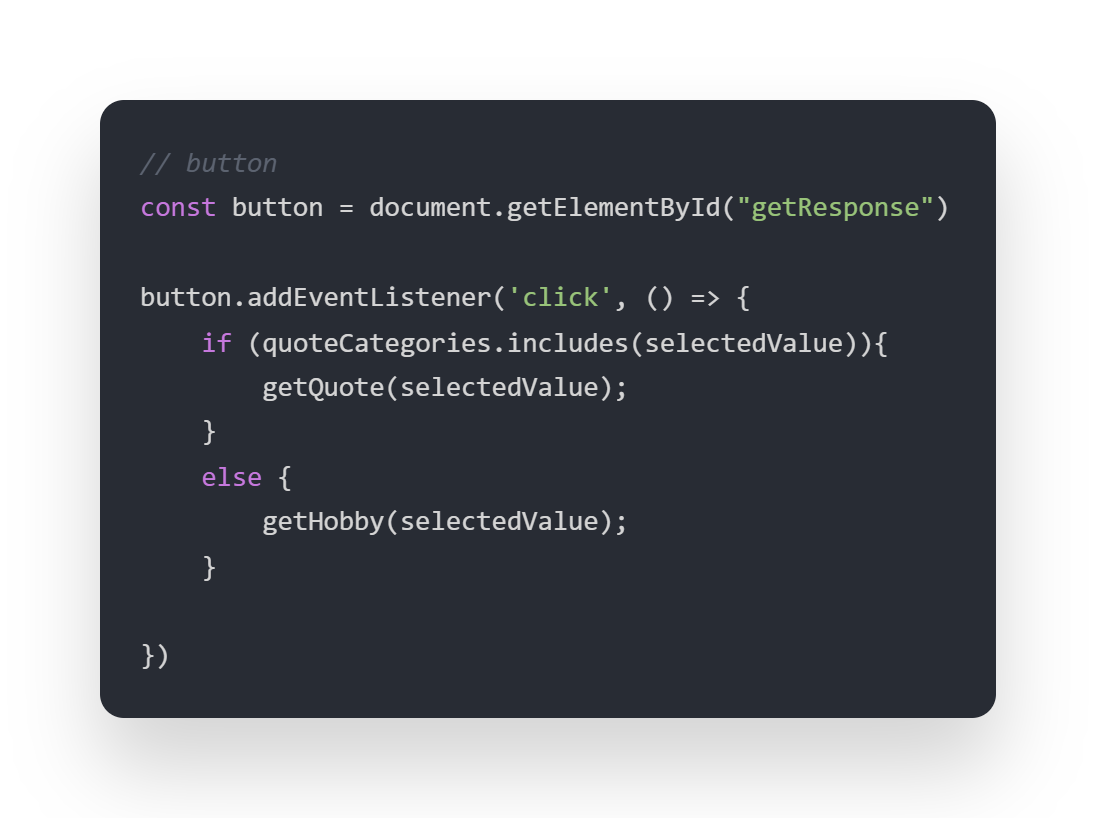
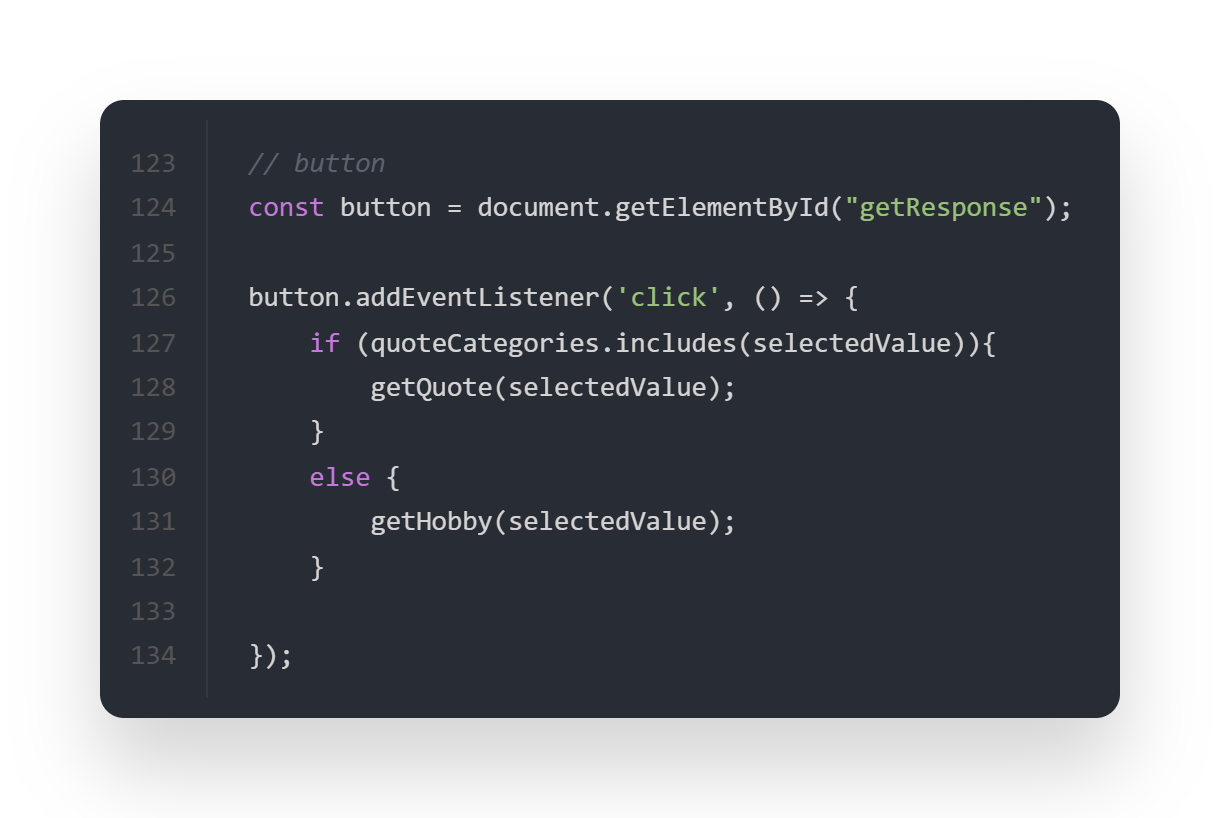
fix: form error messages

diff --git a/assets/js/script.js b/assets/js/script.js
@@ -6,14 +6,14 @@ const checkbox2 = document.getElementById('hobby');
 
 // target drop down
 const dropdown = document.getElementById("category-dropdown");
-// Default empty dropdown
+// Default empty dropdown (page first load)
 dropdown.innerHTML = '<option value="">Select a category</option>';
 
 // categories
 const quoteCategories = ["wisdom", "philosophy", "life", "truth", "inspirational", "relationships", "love", "faith", "humor", "success", "courage", "happiness", "art", "writing", "fear", "nature", "time", "freedom", "death", "leadership"];
 const hobbyCategories = ["general", "sports_and_outdoors", "education", "collection", "competition", "observation"];
 
-// default to no api selected
+// default to no api selected (page first load)
 let selectedValue = "no api";
 
 
@@ -23,18 +23,19 @@ checkbox1.addEventListener('change', () => {
     if (checkbox1.checked) {
     // toggle other checkbox
     checkbox2.checked = false;
-    // reset dropdown if click other checkbox
+    // clear dropdown list if click other checkbox, otherwise it adds to existing list
     dropdown.innerHTML = '<option value="">Select a category</option>';    
     quoteCategories.forEach(category => {
         let categoryOption = document.createElement("option");
         categoryOption.text = category;
         categoryOption.value = category;
         dropdown.add(categoryOption);
+    // clear previous selected value if click other checkbox       
     selectedValue = undefined;    
     });
     }
     else {
-        // reset dropdown if uncheck checkbox        
+        // reset dropdown, selected value if uncheck same checkbox      
         selectedValue = "no api";
         dropdown.innerHTML = '<option value="">Select a category</option>';
     }
@@ -44,18 +45,19 @@ checkbox2.addEventListener('change', () => {
     if (checkbox2.checked) {
     // toggle other checkbox
     checkbox1.checked = false;
-    // reset dropdown if click other checkbox
+    // clear dropdown list if click other checkbox, otherwise it adds to existing list
     dropdown.innerHTML = '<option value="">Select a category</option>';     
     hobbyCategories.forEach(category => {
         let categoryOption = document.createElement("option");
         categoryOption.text = category;
         categoryOption.value = category;
         dropdown.add(categoryOption);
+    // clear previous selected value if click other checkbox  
     selectedValue = undefined;
     });
     }
     else {
-        // reset dropdown if uncheck checkbox
+        // reset dropdown, selected value if uncheck same checkbox
         selectedValue = "no api";
         dropdown.innerHTML = '<option value="">Select a category</option>';
     }
